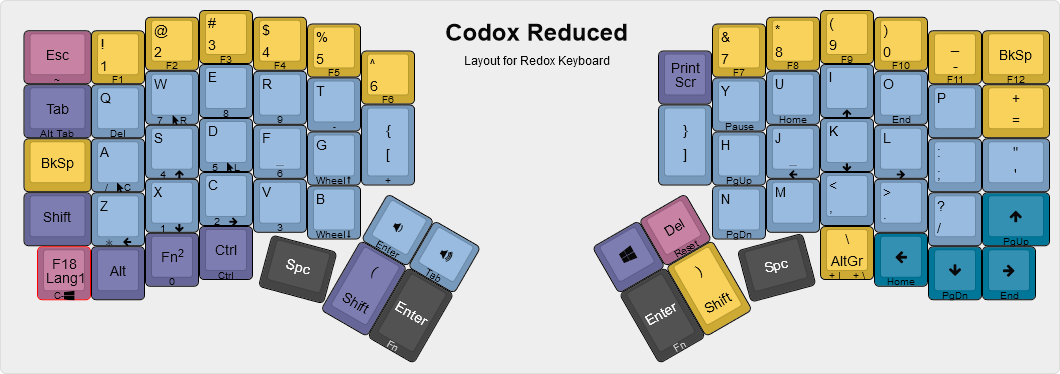
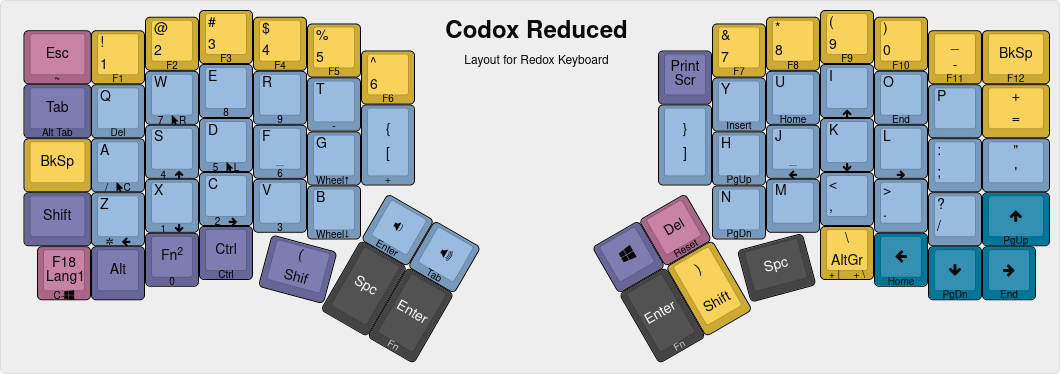
Swapped LSPO with SPC for gaming

diff --git a/Codox_Reduced/source_colemak/keymap.c b/Codox_Reduced/source_colemak/keymap.c
@@ -1,7 +1,7 @@
 #include QMK_KEYBOARD_H
 
 const uint16_t PROGMEM keymaps[][MATRIX_ROWS][MATRIX_COLS] = {
-	[0] = LAYOUT(KC_GESC, KC_1, KC_2, KC_3, KC_4, KC_5, KC_7, KC_8, KC_9, KC_0, KC_MINS, KC_BSPC, KC_TAB, KC_Q, KC_W, KC_F, KC_P, KC_G, KC_6, KC_PSCR, KC_J, KC_L, KC_U, KC_Y, KC_SCLN, KC_EQL, KC_BSPC, KC_A, KC_R, KC_S, KC_T, KC_D, KC_LBRC, KC_RBRC, KC_H, KC_N, KC_E, KC_I, KC_O, KC_QUOT, KC_LSFT, KC_Z, KC_X, KC_C, KC_V, KC_B, KC_VOLD, KC_VOLU, KC_LGUI, KC_DEL, KC_K, KC_M, KC_COMM, KC_DOT, KC_SLSH, KC_UP, KC_HAEN, KC_LALT, MO(2), KC_LCTL, KC_SPC, KC_LSPO, LT(1,KC_ENT), LT(1,KC_ENT), KC_RSPC, KC_SPC, RALT_T(KC_BSLS), KC_LEFT, KC_DOWN, KC_RGHT),
-	[1] = LAYOUT(KC_GRV, KC_F1, KC_F2, KC_F3, KC_F4, KC_F5, KC_F7, KC_F8, KC_F9, KC_F10, KC_F11, KC_F12, LALT_T(KC_TAB), KC_DEL, KC_P7, KC_P8, KC_P9, KC_PMNS, KC_F6, KC_TRNS, KC_PAUS, KC_HOME, KC_UP, KC_END, KC_NO, KC_BSLS, KC_TRNS, KC_PSLS, KC_P4, KC_P5, KC_P6, KC_WH_U, KC_PPLS, KC_TRNS, KC_PGUP, KC_LEFT, KC_DOWN, KC_RGHT, KC_NO, KC_TRNS, KC_TRNS, KC_PAST, KC_P1, KC_P2, KC_P3, KC_WH_D, KC_PENT, KC_TAB, KC_TRNS, RESET, KC_PGDN, KC_NO, KC_TRNS, KC_TRNS, KC_TRNS, KC_PGUP, LCTL(KC_LGUI), KC_TRNS, KC_P0, KC_TRNS, KC_TRNS, KC_TRNS, KC_TRNS, KC_TRNS, KC_TRNS, KC_TRNS, RALT(KC_BSLS), KC_HOME, KC_PGDN, KC_END),
+	[0] = LAYOUT(KC_GESC, KC_1, KC_2, KC_3, KC_4, KC_5, KC_7, KC_8, KC_9, KC_0, KC_MINS, KC_BSPC, KC_TAB, KC_Q, KC_W, KC_F, KC_P, KC_G, KC_6, KC_PSCR, KC_J, KC_L, KC_U, KC_Y, KC_SCLN, KC_EQL, KC_BSPC, KC_A, KC_R, KC_S, KC_T, KC_D, KC_LBRC, KC_RBRC, KC_H, KC_N, KC_E, KC_I, KC_O, KC_QUOT, KC_LSFT, KC_Z, KC_X, KC_C, KC_V, KC_B, KC_VOLD, KC_VOLU, KC_LGUI, KC_DEL, KC_K, KC_M, KC_COMM, KC_DOT, KC_SLSH, KC_UP, KC_HAEN, KC_LALT, MO(2), KC_LCTL, KC_LSPO, KC_SPC, LT(1,KC_ENT), LT(1,KC_ENT), KC_RSPC, KC_SPC, RALT_T(KC_BSLS), KC_LEFT, KC_DOWN, KC_RGHT),
+	[1] = LAYOUT(KC_GRV, KC_F1, KC_F2, KC_F3, KC_F4, KC_F5, KC_F7, KC_F8, KC_F9, KC_F10, KC_F11, KC_F12, LALT_T(KC_TAB), KC_DEL, KC_P7, KC_P8, KC_P9, KC_PMNS, KC_F6, KC_TRNS, KC_INS, KC_HOME, KC_UP, KC_END, KC_NO, KC_BSLS, KC_TRNS, KC_PSLS, KC_P4, KC_P5, KC_P6, KC_WH_U, KC_PPLS, KC_TRNS, KC_PGUP, KC_LEFT, KC_DOWN, KC_RGHT, KC_NO, KC_TRNS, KC_TRNS, KC_PAST, KC_P1, KC_P2, KC_P3, KC_WH_D, KC_PENT, KC_TAB, KC_TRNS, RESET, KC_PGDN, KC_NO, KC_TRNS, KC_TRNS, KC_TRNS, KC_PGUP, LCTL(KC_LGUI), KC_TRNS, KC_P0, KC_TRNS, KC_TRNS, KC_TRNS, KC_TRNS, KC_TRNS, KC_TRNS, KC_TRNS, RALT(KC_BSLS), KC_HOME, KC_PGDN, KC_END),
 	[2] = LAYOUT(KC_NO, KC_NO, KC_NO, KC_NO, KC_NO, KC_NO, KC_NO, KC_NO, KC_NO, KC_NO, KC_NO, KC_NO, KC_NO, KC_NO, KC_BTN2, KC_NO, KC_NO, KC_NO, KC_NO, KC_NO, KC_NO, KC_NO, KC_NO, KC_NO, KC_NO, KC_NO, KC_NO, KC_BTN3, KC_UP, KC_BTN1, KC_WH_U, KC_NO, KC_NO, KC_NO, KC_NO, KC_NO, KC_NO, KC_NO, KC_NO, KC_NO, KC_LSFT, KC_LEFT, KC_DOWN, KC_RGHT, KC_WH_D, KC_NO, KC_NO, KC_NO, KC_NO, KC_NO, KC_NO, KC_NO, KC_NO, KC_NO, KC_NO, KC_NO, KC_TRNS, KC_NO, KC_NO, KC_NO, KC_NO, KC_LCTL, KC_LSFT, KC_NO, KC_NO, KC_NO, KC_NO, KC_NO, KC_NO, KC_NO)
 };

diff --git a/Codox_Reduced/source_qwerty/keymap.c b/Codox_Reduced/source_qwerty/keymap.c
@@ -1,7 +1,7 @@
 #include QMK_KEYBOARD_H
 
 const uint16_t PROGMEM keymaps[][MATRIX_ROWS][MATRIX_COLS] = {
-	[0] = LAYOUT(KC_GESC, KC_1, KC_2, KC_3, KC_4, KC_5, KC_7, KC_8, KC_9, KC_0, KC_MINS, KC_BSPC, KC_TAB, KC_Q, KC_W, KC_E, KC_R, KC_T, KC_6, KC_PSCR, KC_Y, KC_U, KC_I, KC_O, KC_P, KC_EQL, KC_BSPC, KC_A, KC_S, KC_D, KC_F, KC_G, KC_LBRC, KC_RBRC, KC_H, KC_J, KC_K, KC_L, KC_SCLN, KC_QUOT, KC_LSFT, KC_Z, KC_X, KC_C, KC_V, KC_B, KC_VOLD, KC_VOLU, KC_LGUI, KC_DEL, KC_N, KC_M, KC_COMM, KC_DOT, KC_SLSH, KC_UP, KC_HAEN, KC_LALT, MO(2), KC_LCTL, KC_SPC, KC_LSPO, LT(1,KC_ENT), LT(1,KC_ENT), KC_RSPC, KC_SPC, RALT_T(KC_BSLS), KC_LEFT, KC_DOWN, KC_RGHT),
-	[1] = LAYOUT(KC_GRV, KC_F1, KC_F2, KC_F3, KC_F4, KC_F5, KC_F7, KC_F8, KC_F9, KC_F10, KC_F11, KC_F12, LALT_T(KC_TAB), KC_DEL, KC_P7, KC_P8, KC_P9, KC_PMNS, KC_F6, KC_TRNS, KC_PAUS, KC_HOME, KC_UP, KC_END, KC_NO, KC_BSLS, KC_TRNS, KC_PSLS, KC_P4, KC_P5, KC_P6, KC_WH_U, KC_PPLS, KC_TRNS, KC_PGUP, KC_LEFT, KC_DOWN, KC_RGHT, KC_NO, KC_TRNS, KC_TRNS, KC_PAST, KC_P1, KC_P2, KC_P3, KC_WH_D, KC_PENT, KC_TAB, KC_TRNS, RESET, KC_PGDN, KC_NO, KC_TRNS, KC_TRNS, KC_TRNS, KC_PGUP, LCTL(KC_LGUI), KC_TRNS, KC_P0, KC_TRNS, KC_TRNS, KC_TRNS, KC_TRNS, KC_TRNS, KC_TRNS, KC_TRNS, RALT(KC_BSLS), KC_HOME, KC_PGDN, KC_END),
+	[0] = LAYOUT(KC_GESC, KC_1, KC_2, KC_3, KC_4, KC_5, KC_7, KC_8, KC_9, KC_0, KC_MINS, KC_BSPC, KC_TAB, KC_Q, KC_W, KC_E, KC_R, KC_T, KC_6, KC_PSCR, KC_Y, KC_U, KC_I, KC_O, KC_P, KC_EQL, KC_BSPC, KC_A, KC_S, KC_D, KC_F, KC_G, KC_LBRC, KC_RBRC, KC_H, KC_J, KC_K, KC_L, KC_SCLN, KC_QUOT, KC_LSFT, KC_Z, KC_X, KC_C, KC_V, KC_B, KC_VOLD, KC_VOLU, KC_LGUI, KC_DEL, KC_N, KC_M, KC_COMM, KC_DOT, KC_SLSH, KC_UP, KC_HAEN, KC_LALT, MO(2), KC_LCTL, KC_LSPO, KC_SPC, LT(1,KC_ENT), LT(1,KC_ENT), KC_RSPC, KC_SPC, RALT_T(KC_BSLS), KC_LEFT, KC_DOWN, KC_RGHT),
+	[1] = LAYOUT(KC_GRV, KC_F1, KC_F2, KC_F3, KC_F4, KC_F5, KC_F7, KC_F8, KC_F9, KC_F10, KC_F11, KC_F12, LALT_T(KC_TAB), KC_DEL, KC_P7, KC_P8, KC_P9, KC_PMNS, KC_F6, KC_TRNS, KC_INS, KC_HOME, KC_UP, KC_END, KC_NO, KC_BSLS, KC_TRNS, KC_PSLS, KC_P4, KC_P5, KC_P6, KC_WH_U, KC_PPLS, KC_TRNS, KC_PGUP, KC_LEFT, KC_DOWN, KC_RGHT, KC_NO, KC_TRNS, KC_TRNS, KC_PAST, KC_P1, KC_P2, KC_P3, KC_WH_D, KC_PENT, KC_TAB, KC_TRNS, RESET, KC_PGDN, KC_NO, KC_TRNS, KC_TRNS, KC_TRNS, KC_PGUP, LCTL(KC_LGUI), KC_TRNS, KC_P0, KC_TRNS, KC_TRNS, KC_TRNS, KC_TRNS, KC_TRNS, KC_TRNS, KC_TRNS, RALT(KC_BSLS), KC_HOME, KC_PGDN, KC_END),
 	[2] = LAYOUT(KC_NO, KC_NO, KC_NO, KC_NO, KC_NO, KC_NO, KC_NO, KC_NO, KC_NO, KC_NO, KC_NO, KC_NO, KC_NO, KC_NO, KC_BTN2, KC_NO, KC_NO, KC_NO, KC_NO, KC_NO, KC_NO, KC_NO, KC_NO, KC_NO, KC_NO, KC_NO, KC_NO, KC_BTN3, KC_UP, KC_BTN1, KC_WH_U, KC_NO, KC_NO, KC_NO, KC_NO, KC_NO, KC_NO, KC_NO, KC_NO, KC_NO, KC_LSFT, KC_LEFT, KC_DOWN, KC_RGHT, KC_WH_D, KC_NO, KC_NO, KC_NO, KC_NO, KC_NO, KC_NO, KC_NO, KC_NO, KC_NO, KC_NO, KC_NO, KC_TRNS, KC_NO, KC_NO, KC_NO, KC_NO, KC_LCTL, KC_LSFT, KC_NO, KC_NO, KC_NO, KC_NO, KC_NO, KC_NO, KC_NO)
 };
